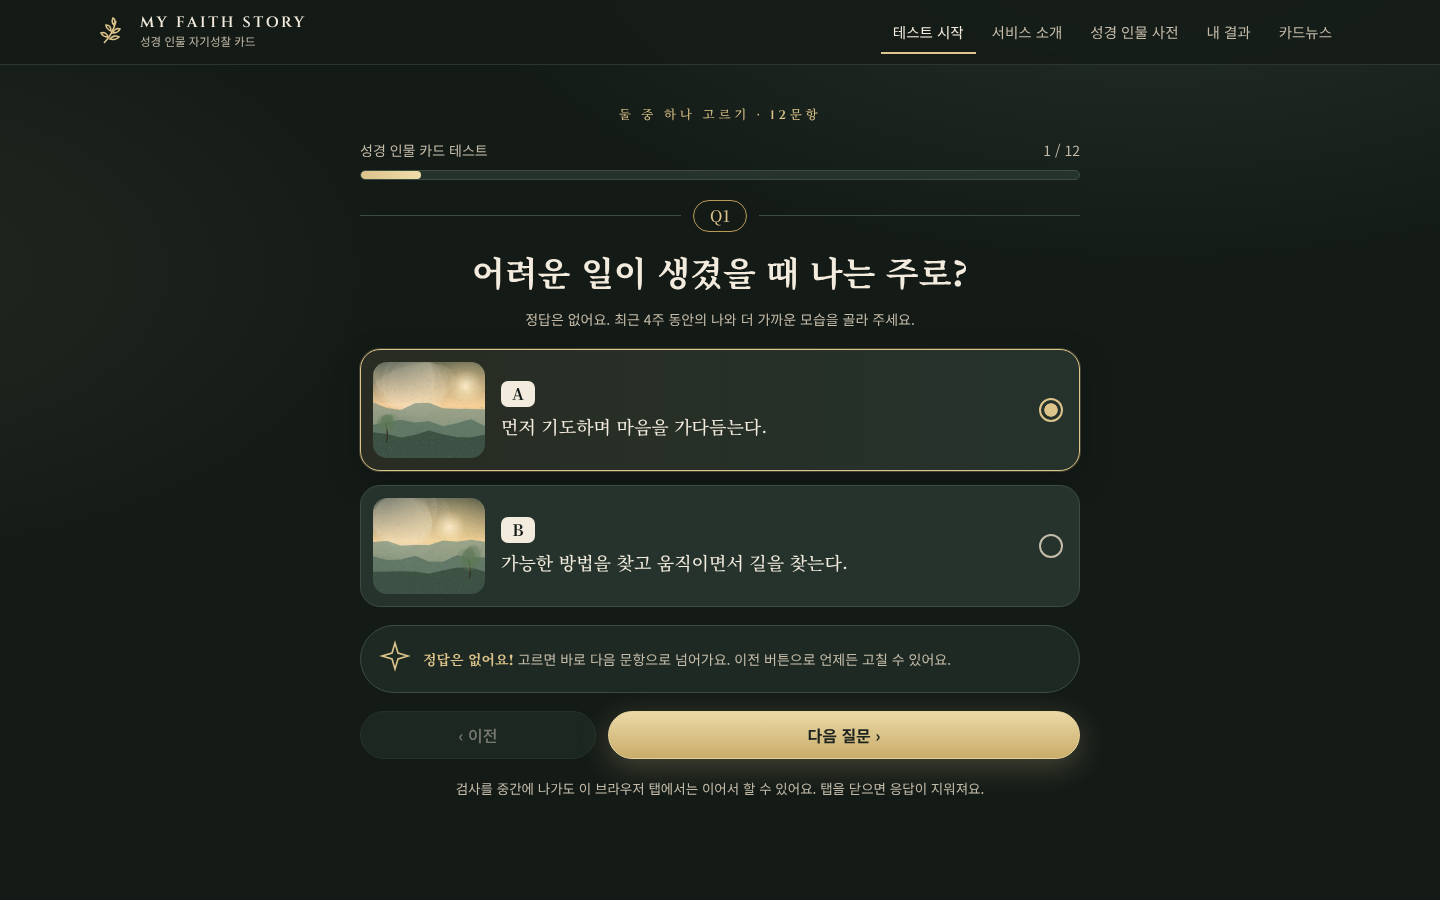
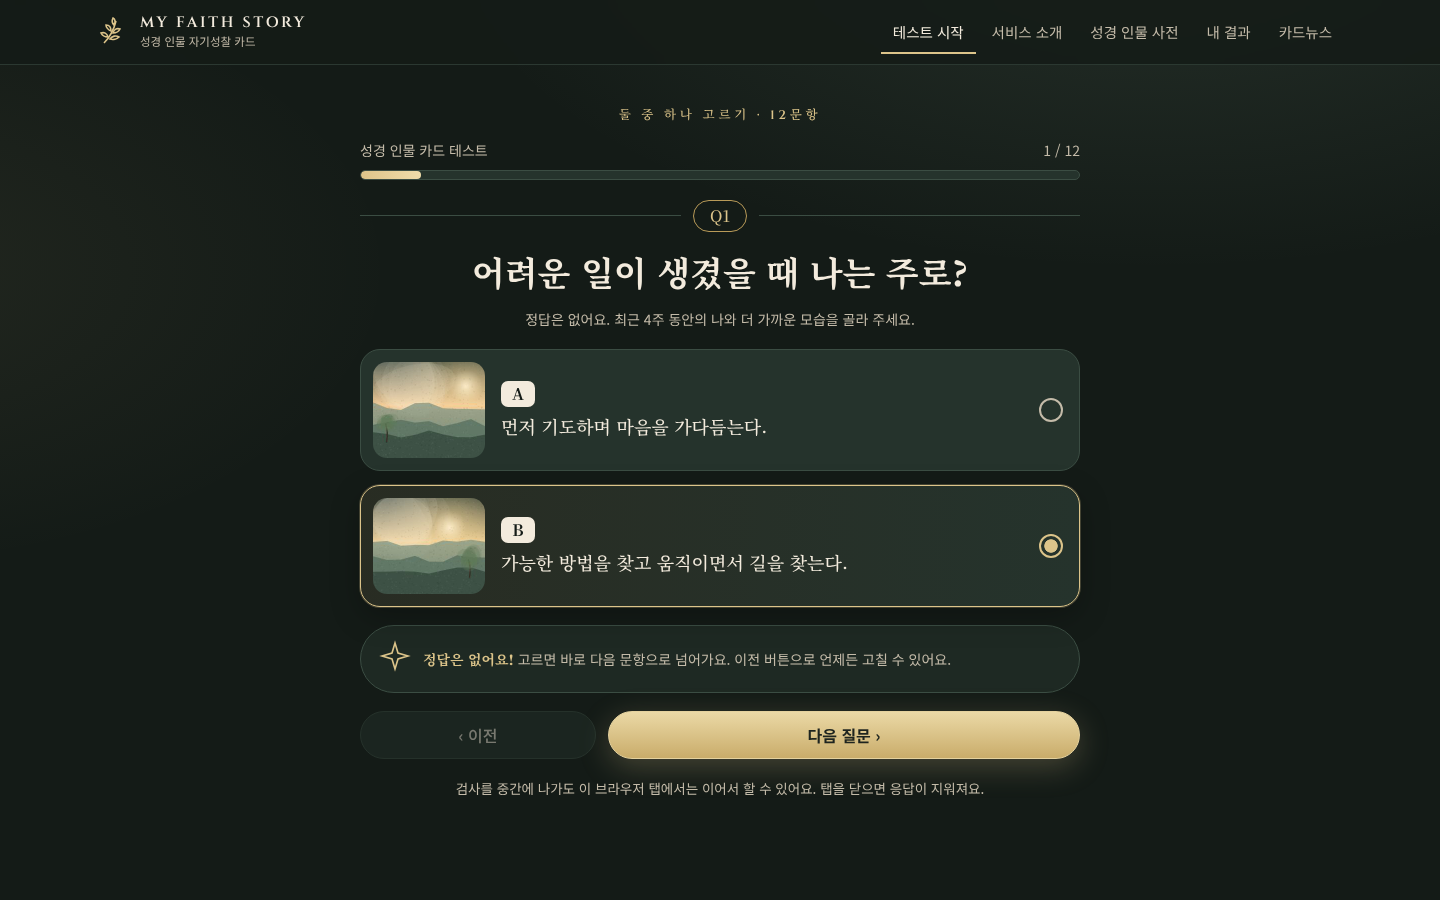
Fix quiz auto-advance in browsers that report label clicks with detail=0
Track pointer vs keyboard input explicitly instead of relying on event.detail
(Safari reports label-forwarded clicks with detail 0). Adds an E2E check.

Claude-Session: https://claude.ai/code/session_014c9vFgBS4BdK9e3m5zEueQ

Changed region(s): [[0.7188, 0.5911, 0.75, 0.6222], [0.7188, 0.4356, 0.75, 0.4667]]

diff --git a/dist/index.html b/dist/index.html
@@ -1810,14 +1810,19 @@ window.MFS_PORTRAITS=["nt-peter","ot-abraham","ot-asaph","ot-daniel","ot-david",
       bar.setAttribute('aria-valuenow', n); bar.setAttribute('aria-label', `응답한 문항 ${n}개 / 12개`); bar.querySelector('i').style.width = Math.max(4, n / 12 * 100) + '%';
     };
     // Tap/click on an option selects it and moves straight to the next question (user request).
-    // Keyboard: arrow keys only select; Enter selects and moves on; the 다음 button still works.
-    $app.querySelectorAll('input[name=q]').forEach(inp => {
-      inp.addEventListener('change', () => pick(inp.value));
-      inp.addEventListener('click', e => {
-        if (e.detail === 0) return; // keyboard-generated click (arrows/space): no auto-advance
-        pick(inp.value); clearTimeout(advanceTimer); advanceTimer = setTimeout(advance, reduceMotion ? 0 : 220);
+    // Pointer vs keyboard is tracked explicitly: some browsers (e.g. Safari) report label clicks with
+    // event.detail === 0, so detail cannot be used. Arrow keys only select; Enter selects and moves on.
+    let viaPointer = false;
+    const schedule = () => { clearTimeout(advanceTimer); advanceTimer = setTimeout(advance, reduceMotion ? 0 : 220); };
+    $app.querySelectorAll('label.opt').forEach(label => {
+      const inp = label.querySelector('input');
+      ['pointerdown', 'mousedown', 'touchstart'].forEach(t => label.addEventListener(t, () => { viaPointer = true; }, { passive: true }));
+      label.addEventListener('click', () => { if (!viaPointer) return; inp.checked = true; pick(inp.value); schedule(); });
+      inp.addEventListener('change', () => { pick(inp.value); if (viaPointer) schedule(); });
+      inp.addEventListener('keydown', e => {
+        viaPointer = false;
+        if (e.key === 'Enter') { e.preventDefault(); inp.checked = true; pick(inp.value); clearTimeout(advanceTimer); advance(); }
       });
-      inp.addEventListener('keydown', e => { if (e.key === 'Enter') { e.preventDefault(); inp.checked = true; pick(inp.value); advance(); } });
     });
     document.getElementById('prev').onclick = () => { clearTimeout(advanceTimer); S.idx = i - 1; save(); render(); };
     document.getElementById('next').onclick = () => { clearTimeout(advanceTimer); advance(); };

diff --git a/dist/standalone.html b/dist/standalone.html
@@ -1812,14 +1812,19 @@ window.MFS_PORTRAITS=["nt-peter","ot-abraham","ot-asaph","ot-daniel","ot-david",
       bar.setAttribute('aria-valuenow', n); bar.setAttribute('aria-label', `응답한 문항 ${n}개 / 12개`); bar.querySelector('i').style.width = Math.max(4, n / 12 * 100) + '%';
     };
     // Tap/click on an option selects it and moves straight to the next question (user request).
-    // Keyboard: arrow keys only select; Enter selects and moves on; the 다음 button still works.
-    $app.querySelectorAll('input[name=q]').forEach(inp => {
-      inp.addEventListener('change', () => pick(inp.value));
-      inp.addEventListener('click', e => {
-        if (e.detail === 0) return; // keyboard-generated click (arrows/space): no auto-advance
-        pick(inp.value); clearTimeout(advanceTimer); advanceTimer = setTimeout(advance, reduceMotion ? 0 : 220);
+    // Pointer vs keyboard is tracked explicitly: some browsers (e.g. Safari) report label clicks with
+    // event.detail === 0, so detail cannot be used. Arrow keys only select; Enter selects and moves on.
+    let viaPointer = false;
+    const schedule = () => { clearTimeout(advanceTimer); advanceTimer = setTimeout(advance, reduceMotion ? 0 : 220); };
+    $app.querySelectorAll('label.opt').forEach(label => {
+      const inp = label.querySelector('input');
+      ['pointerdown', 'mousedown', 'touchstart'].forEach(t => label.addEventListener(t, () => { viaPointer = true; }, { passive: true }));
+      label.addEventListener('click', () => { if (!viaPointer) return; inp.checked = true; pick(inp.value); schedule(); });
+      inp.addEventListener('change', () => { pick(inp.value); if (viaPointer) schedule(); });
+      inp.addEventListener('keydown', e => {
+        viaPointer = false;
+        if (e.key === 'Enter') { e.preventDefault(); inp.checked = true; pick(inp.value); clearTimeout(advanceTimer); advance(); }
       });
-      inp.addEventListener('keydown', e => { if (e.key === 'Enter') { e.preventDefault(); inp.checked = true; pick(inp.value); advance(); } });
     });
     document.getElementById('prev').onclick = () => { clearTimeout(advanceTimer); S.idx = i - 1; save(); render(); };
     document.getElementById('next').onclick = () => { clearTimeout(advanceTimer); advance(); };

diff --git a/src/app.js b/src/app.js
@@ -301,14 +301,19 @@
       bar.setAttribute('aria-valuenow', n); bar.setAttribute('aria-label', `응답한 문항 ${n}개 / 12개`); bar.querySelector('i').style.width = Math.max(4, n / 12 * 100) + '%';
     };
     // Tap/click on an option selects it and moves straight to the next question (user request).
-    // Keyboard: arrow keys only select; Enter selects and moves on; the 다음 button still works.
-    $app.querySelectorAll('input[name=q]').forEach(inp => {
-      inp.addEventListener('change', () => pick(inp.value));
-      inp.addEventListener('click', e => {
-        if (e.detail === 0) return; // keyboard-generated click (arrows/space): no auto-advance
-        pick(inp.value); clearTimeout(advanceTimer); advanceTimer = setTimeout(advance, reduceMotion ? 0 : 220);
+    // Pointer vs keyboard is tracked explicitly: some browsers (e.g. Safari) report label clicks with
+    // event.detail === 0, so detail cannot be used. Arrow keys only select; Enter selects and moves on.
+    let viaPointer = false;
+    const schedule = () => { clearTimeout(advanceTimer); advanceTimer = setTimeout(advance, reduceMotion ? 0 : 220); };
+    $app.querySelectorAll('label.opt').forEach(label => {
+      const inp = label.querySelector('input');
+      ['pointerdown', 'mousedown', 'touchstart'].forEach(t => label.addEventListener(t, () => { viaPointer = true; }, { passive: true }));
+      label.addEventListener('click', () => { if (!viaPointer) return; inp.checked = true; pick(inp.value); schedule(); });
+      inp.addEventListener('change', () => { pick(inp.value); if (viaPointer) schedule(); });
+      inp.addEventListener('keydown', e => {
+        viaPointer = false;
+        if (e.key === 'Enter') { e.preventDefault(); inp.checked = true; pick(inp.value); clearTimeout(advanceTimer); advance(); }
       });
-      inp.addEventListener('keydown', e => { if (e.key === 'Enter') { e.preventDefault(); inp.checked = true; pick(inp.value); advance(); } });
     });
     document.getElementById('prev').onclick = () => { clearTimeout(advanceTimer); S.idx = i - 1; save(); render(); };
     document.getElementById('next').onclick = () => { clearTimeout(advanceTimer); advance(); };

diff --git a/tests/e2e/run-e2e.js b/tests/e2e/run-e2e.js
@@ -69,7 +69,11 @@ async function download(page, clickSel) {
   await page.waitForFunction(() => document.querySelector('.progress span:last-child').textContent.trim() === '2 / 12');
   check('option click auto-advances to next question', true);
   await page.locator('#prev').click();
-  check('previous answer kept after going back', await page.locator('#opt-1A').isChecked());
+  await page.evaluate(() => { const l = document.querySelector('label[for="opt-1B"]'); l.dispatchEvent(new PointerEvent('pointerdown', { bubbles: true })); l.dispatchEvent(new MouseEvent('click', { bubbles: true, detail: 0 })); });
+  const advanced0 = await page.waitForFunction(() => document.querySelector('.progress span:last-child').textContent.trim() === '2 / 12', null, { timeout: 3000 }).then(() => true, () => false);
+  check('Safari-style click (detail=0) still auto-advances', advanced0);
+  await page.locator('#prev').click();
+  check('previous answer kept after going back', await page.locator('#opt-1B').isChecked());
   await page.screenshot({ path: path.join(SHOTS, 'pc-02-question.png') });
   await answerAll(page, ANSWERS);
   await page.waitForTimeout(400);

diff --git a/docs/IMPLEMENTATION_STATUS.md b/docs/IMPLEMENTATION_STATUS.md
@@ -3,7 +3,7 @@
 ## 완료 (실행·검증됨)
 - 데이터: 인물 100(구약 50/신약 50), 사건 프로필 251, 특기 34, 복합 규칙 6, 템플릿 — `npm run validate:data` OK
 - 엔진/희귀도: 순수 함수, 정적 인덱스(시그니처 키 44개: N 13 · R 7 · SR 12 · SSR 12)
-- 테스트: `npm test` 10/10, `npm run test:exhaustive` 실패 0, `npm run test:e2e` 67/67 (Playwright Chromium, headless)
+- 테스트: `npm test` 10/10, `npm run test:exhaustive` 실패 0, `npm run test:e2e` 68/68 (Playwright Chromium, headless)
 - 빌드: `dist/index.html`(Artifact), `dist/standalone.html`(정적 호스팅) 약 185 KB
 - UI 전 화면, PNG/ZIP 저장, 공유 fallback, 세션 복원/초기화, reduced-motion, 키보드/스와이프
 

diff --git a/docs/QA_REPORT.md b/docs/QA_REPORT.md
@@ -7,7 +7,7 @@
 | `npm test` | 10/10 통과 |
 | `npm run test:exhaustive` | 실패 0 |
 | `npm run build` | OK, 184.8 KB |
-| `npm run test:e2e` | 67/67 통과 (로컬 HTTP 서버로 제공 — 초상 이미지를 캔버스에 그리기 위해) (Playwright Chromium headless, `e2e-results.json`) |
+| `npm run test:e2e` | 68/68 통과 (로컬 HTTP 서버로 제공 — 초상 이미지를 캔버스에 그리기 위해) (Playwright Chromium headless, `e2e-results.json`) |
 | `npm audit` | 취약점 0 (devDependency jszip만) |
 
 ## 4,096 전수 결과 (동일 가중치 QA 공간)
